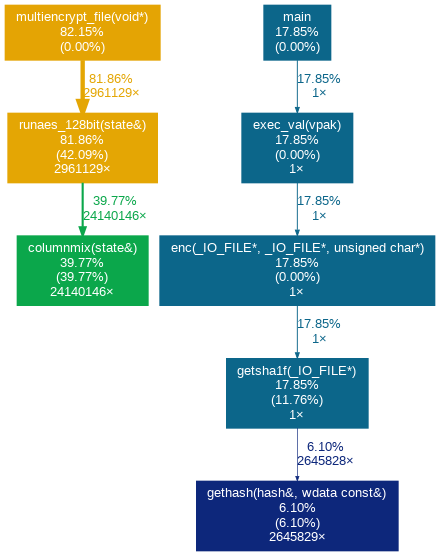
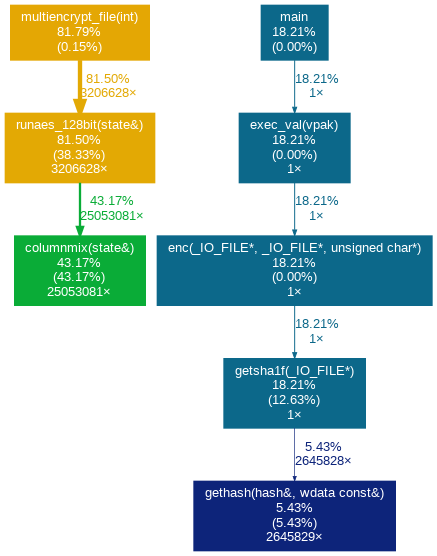
v2.1.1

diff --git a/src/multicry.cpp b/src/multicry.cpp
@@ -2,22 +2,19 @@
 #include "aes.h"
 #include "util.h"
 
-#include <pthread.h>
-#include <stdio.h>
-
 #ifdef MULTI_ENABLE
+#include <condition_variable>
+#include <mutex>
+#include <stdio.h>
+#include <thread>
 
 //缓冲区序列
 struct iobuffer bufs[THREADS_NUM];
-//线程序列
-pthread_t threads[THREADS_NUM];
-//线程ID序列
-int tids[THREADS_NUM];
 //输入输出文件
 FILE *fin, *fout;
 //保证同步的条件变量和互斥锁
-pthread_cond_t cond;
-pthread_mutex_t mutex;
+std::condition_variable cond;
+std::mutex mutexA;
 //保证同步的输入输出序号
 int inputidx = 0, outputidx = 0;
 
@@ -35,23 +32,21 @@ int idx_update() {
 }
 /*
 multiencrypt_file:进行加密的线程函数
-idp:线程id的地址
+id:线程id
 */
-void *multiencrypt_file(void *idp) {
-  int id = *(int *)idp;
-  pthread_mutex_lock(&mutex);
+void multiencrypt_file(int id) {
+  mutexA.lock();
   int idxnow = load_files(&bufs[id], fin, fout) ? inputidx++ : -1;
-  pthread_mutex_unlock(&mutex);
+  mutexA.unlock();
   if (idxnow != -1)
     printf("Buffer of thread id %d loaded %dMB data.\n", id, BUF_SZ >> 16);
 
   while (idxnow != -1) {
     struct state *block = (struct state *)get_entry(&bufs[id]);
     if (block == NULL) {
-      pthread_mutex_lock(&mutex);
+      std::unique_lock<std::mutex> locker(mutexA);
       while (outputidx != idxnow && inputidx != -1)
-        pthread_cond_wait(&cond, &mutex);
-
+        cond.wait(locker);
       if (buffer_over(&bufs[id])) {
         char sum = final_write(&bufs[id], 16);
         fseek(fout, 47, SEEK_SET);
@@ -60,76 +55,55 @@ void *multiencrypt_file(void *idp) {
       } else if (inputidx != -1)
         update_buffer(&bufs[id]);
       idxnow = idx_update();
-      pthread_cond_broadcast(&cond);
-
-      pthread_mutex_unlock(&mutex);
+      cond.notify_all();
+      locker.unlock();
       if (idxnow != -1)
         printf("Buffer of thread id %d loaded %dMB data.\n", id, BUF_SZ >> 16);
     } else
       runaes_128bit(*block);
   }
-  pthread_exit(NULL);
 }
 /*
 multidecrypt_file:负责解密的线程函数
-idp:线程id的地址
+id:线程id
 */
-void *multidecrypt_file(void *idp) {
-  int id = *(int *)idp;
-  pthread_mutex_lock(&mutex);
+void multidecrypt_file(int id) {
+  mutexA.lock();
   int idxnow = load_files(&bufs[id], fin, fout) ? inputidx++ : -1;
-  pthread_mutex_unlock(&mutex);
+  mutexA.unlock();
   if (idxnow != -1)
     printf("Buffer of thread id %d loaded %dMB data.\n", id, BUF_SZ >> 16);
 
   while (idxnow != -1) {
     struct state *block = (struct state *)get_entry(&bufs[id]);
     if (block == NULL) {
-      pthread_mutex_lock(&mutex);
+      std::unique_lock<std::mutex> locker(mutexA);
       while (outputidx != idxnow && inputidx != -1)
-        pthread_cond_wait(&cond, &mutex);
-
+        cond.wait(locker);
       if (buffer_over(&bufs[id])) {
         final_write(&bufs[id], tail);
         inputidx = -1;
       } else if (inputidx != -1)
         update_buffer(&bufs[id]);
       idxnow = idx_update();
-      pthread_cond_broadcast(&cond);
-
-      pthread_mutex_unlock(&mutex);
+      cond.notify_all();
+      locker.unlock();
       if (idxnow != -1)
         printf("Buffer of thread id %d loaded %dMB data.\n", id, BUF_SZ >> 16);
     } else
       decaes_128bit(*block);
   }
-  pthread_exit(NULL);
 }
 /*
 multi_master_init:多线程初始化
 fp:输入文件地址
 fout:输出文件地址
 tailin:最后一单元项写入的字节数
-threads_num:并发线程数
 */
-void multi_master_init(FILE *fp, FILE *out, int tailin, int threads_num) {
+void multi_master_init(FILE *fp, FILE *out, int tailin) {
   fin = fp;
   fout = out;
   tail = tailin;
-  pthread_mutex_init(&mutex, NULL);
-  pthread_cond_init(&cond, NULL);
-  for (int i = 0; i < threads_num; i++)
-    tids[i] = i;
-}
-/*
-multi_master_wait:等待线程执行完毕
-threads_num:并发线程数
-*/
-void multi_master_wait(int threads_num) {
-  for (int i = 0; i < threads_num; i++)
-    pthread_join(threads[i], NULL);
-  pthread_mutex_destroy(&mutex);
-  pthread_cond_destroy(&cond);
 }
 /*
 接口函数
@@ -139,10 +113,12 @@ fout:输出文件地址
 threads_num:并发线程数
 */
 void multienc_master(FILE *fp, FILE *out, int threads_num) {
-  multi_master_init(fp, out, 16, threads_num);
+  multi_master_init(fp, out, 16);
+  std::thread threads[THREADS_NUM];
   for (int i = 0; i < threads_num; i++)
-    pthread_create(&threads[i], NULL, multiencrypt_file, &tids[i]);
-  multi_master_wait(threads_num);
+    threads[i] = std::thread(multiencrypt_file, i);
+  for (int i = 0; i < threads_num; i++)
+    threads[i].join();
 }
 /*
 接口函数
@@ -153,9 +129,11 @@ tailin:最后一单元项写入的字节数
 threads_num:并发线程数
 */
 void multidec_master(FILE *fp, FILE *out, int tailin, int threads_num) {
-  multi_master_init(fp, out, tailin, threads_num);
+  multi_master_init(fp, out, tailin);
+  std::thread threads[THREADS_NUM];
   for (int i = 0; i < threads_num; i++)
-    pthread_create(&threads[i], NULL, multidecrypt_file, &tids[i]);
-  multi_master_wait(threads_num);
+    threads[i] = std::thread(multidecrypt_file, i);
+  for (int i = 0; i < threads_num; i++)
+    threads[i].join();
 }
 #endif

diff --git a/src/sha1.cpp b/src/sha1.cpp
@@ -79,11 +79,11 @@ void gethash(struct hash &h, const struct wdata &w) {
 }
 /*
 接口函数
-getsha1f:获取文件的sha1哈希值
+getSha1File:获取文件的sha1哈希值
 fp:输入文件
 return:生成的sha1哈希序列
 */
-unsigned char *getsha1f(FILE *fp) {
+unsigned char *getSha1File(FILE *fp) {
   struct hash h = {HASH0, HASH1, HASH2, HASH3, HASH4};
 
   unsigned char s1[64];
@@ -114,12 +114,12 @@ unsigned char *getsha1f(FILE *fp) {
 }
 /*
 接口函数
-getsha1f:获取字符串的sha1哈希值
+getSha1String:获取字符串的sha1哈希值
 s:输入字符串
 n:字符串长度
 return:生成的sha1哈希序列
 */
-unsigned char *getsha1s(unsigned char *s, unsigned int n) {
+unsigned char *getSha1String(unsigned char *s, unsigned int n) {
   struct hash h = {HASH0, HASH1, HASH2, HASH3, HASH4};
 
   unsigned long long b = n * 8, cnum;

diff --git a/src/decry.cpp b/src/decry.cpp
@@ -17,10 +17,9 @@ h2:待比较的哈希数组
 return:哈希是否相同
 */
 bool cmphash(unsigned char *h1, unsigned char *h2) {
-  for (int i = 0; i < 20; i++) {
+  for (int i = 0; i < 20; i++)
     if (h1[i] != h2[i])
       return false;
-  }
   return true;
 }
 /*
@@ -50,7 +49,7 @@ int checkKey(FILE *fp, unsigned char *key) {
   int sum = fread(hash, 1, 20, fp);
   if (sum != 20)
     return -1;
-  unsigned char *chash = getsha1s(key, 16);
+  unsigned char *chash = getSha1String(key, 16);
   if (!cmphash(chash, hash)) {
     delete[] chash;
     return -2;
@@ -74,7 +73,7 @@ int checkFile(FILE *fp) {
   if (rx != 1)
     return -1;
 
-  unsigned char *chash = getsha1f(fp);
+  unsigned char *chash = getSha1File(fp);
   if (!cmphash(chash, hash)) {
     delete[] chash;
     return -3;

diff --git a/src/encry.cpp b/src/encry.cpp
@@ -19,7 +19,7 @@ void getFileHeader(FILE *out, unsigned char *key) {
   unsigned char mn[8], padding[21];
   *(unsigned long long *)mn = Magic_Num;
   fwrite(mn, 1, 7, out);
-  unsigned char *hash = getsha1s(key, 16);
+  unsigned char *hash = getSha1String(key, 16);
   fwrite(hash, 1, 20, out);
   fwrite(padding, 1, 21, out);
   delete[] hash;
@@ -58,7 +58,7 @@ out:加密后的文件
 */
 void hashfile(FILE *out) {
   fseek(out, 48, SEEK_SET);
-  unsigned char *hash = getsha1f(out);
+  unsigned char *hash = getSha1File(out);
   fseek(out, 27, SEEK_SET);
   fwrite(hash, 1, 20, out);
   delete[] hash;

diff --git a/src/execval.cpp b/src/execval.cpp
@@ -84,7 +84,9 @@ bool exec_val(struct vpak vals) {
 #ifndef MULTI_ENABLE
   printf("Time: %lfs\n", totalTime / ((double)CLOCKS_PER_SEC));
 #else
-  printf("Time: %lfs\n", totalTime / ((double)(CLOCKS_PER_SEC * THREADS_NUM)));
+  printf("Time: %lfs / %lfs\n",
+         totalTime / ((double)(CLOCKS_PER_SEC * THREADS_NUM)),
+         totalTime / ((double)CLOCKS_PER_SEC));
 #endif
   return true;
 }

diff --git a/src/getval.cpp b/src/getval.cpp
@@ -132,9 +132,8 @@ struct vpak get_v_mod2(int argc, char *argv[]) {
     if (argc == 4) {
       sprintf(outn, "%s.denc", argv[2]);
       res.out = fopen((const char *)outn, "wb+");
-    } else {
+    } else
       res.out = fopen(argv[4], "wb+");
-    }
   } else if (strcmp(argv[1], "-v") == 0) {
     res.fp = fopen(argv[2], "rb");
     res.out = NULL;

diff --git a/include/sha1.h b/include/sha1.h
@@ -3,7 +3,7 @@
 
 #include <stdio.h>
 
-unsigned char *getsha1f(FILE *fp);
-unsigned char *getsha1s(unsigned char *s, unsigned int n);
+unsigned char *getSha1File(FILE *fp);
+unsigned char *getSha1String(unsigned char *s, unsigned int n);
 
 #endif

diff --git a/include/util.h b/include/util.h
@@ -1,9 +1,9 @@
 #ifndef UTL
 #define UTL
 
-#include "buffer.h"
-#include "def.h"
-#include "struct.h"
-#include "tab.h"
+#include "./util/buffer.h"
+#include "./util/def.h"
+#include "./util/struct.h"
+#include "./util/tab.h"
 
 #endif

diff --git a/README.md b/README.md
@@ -2,7 +2,7 @@
 
 作者：闻嘉迅  
 日期：2023.11.28 (最后修改)  
-版本：v2.1  
+版本：v2.1.1  
 
 **默认4线程模式**  
 **处理速度可达100MB/s以上**  
@@ -140,4 +140,4 @@
 *v1.10 新增:改变为c++语言实现.(1.10.1 改变部分文件结构 1.10.2 重构部分代码以提高执行效率)*  
 *v1.11 新增:重写IO缓冲区以减小内存占用*  
 *v2.0 新增:支持多线程模式(2.0.1 改变并发中同步结构)*  
-*v2.1 新增:改变加密文件头的格式*  
+*v2.1 新增:改变加密文件头的格式(2.1.2 改变多线程实现以支持多平台)*  
